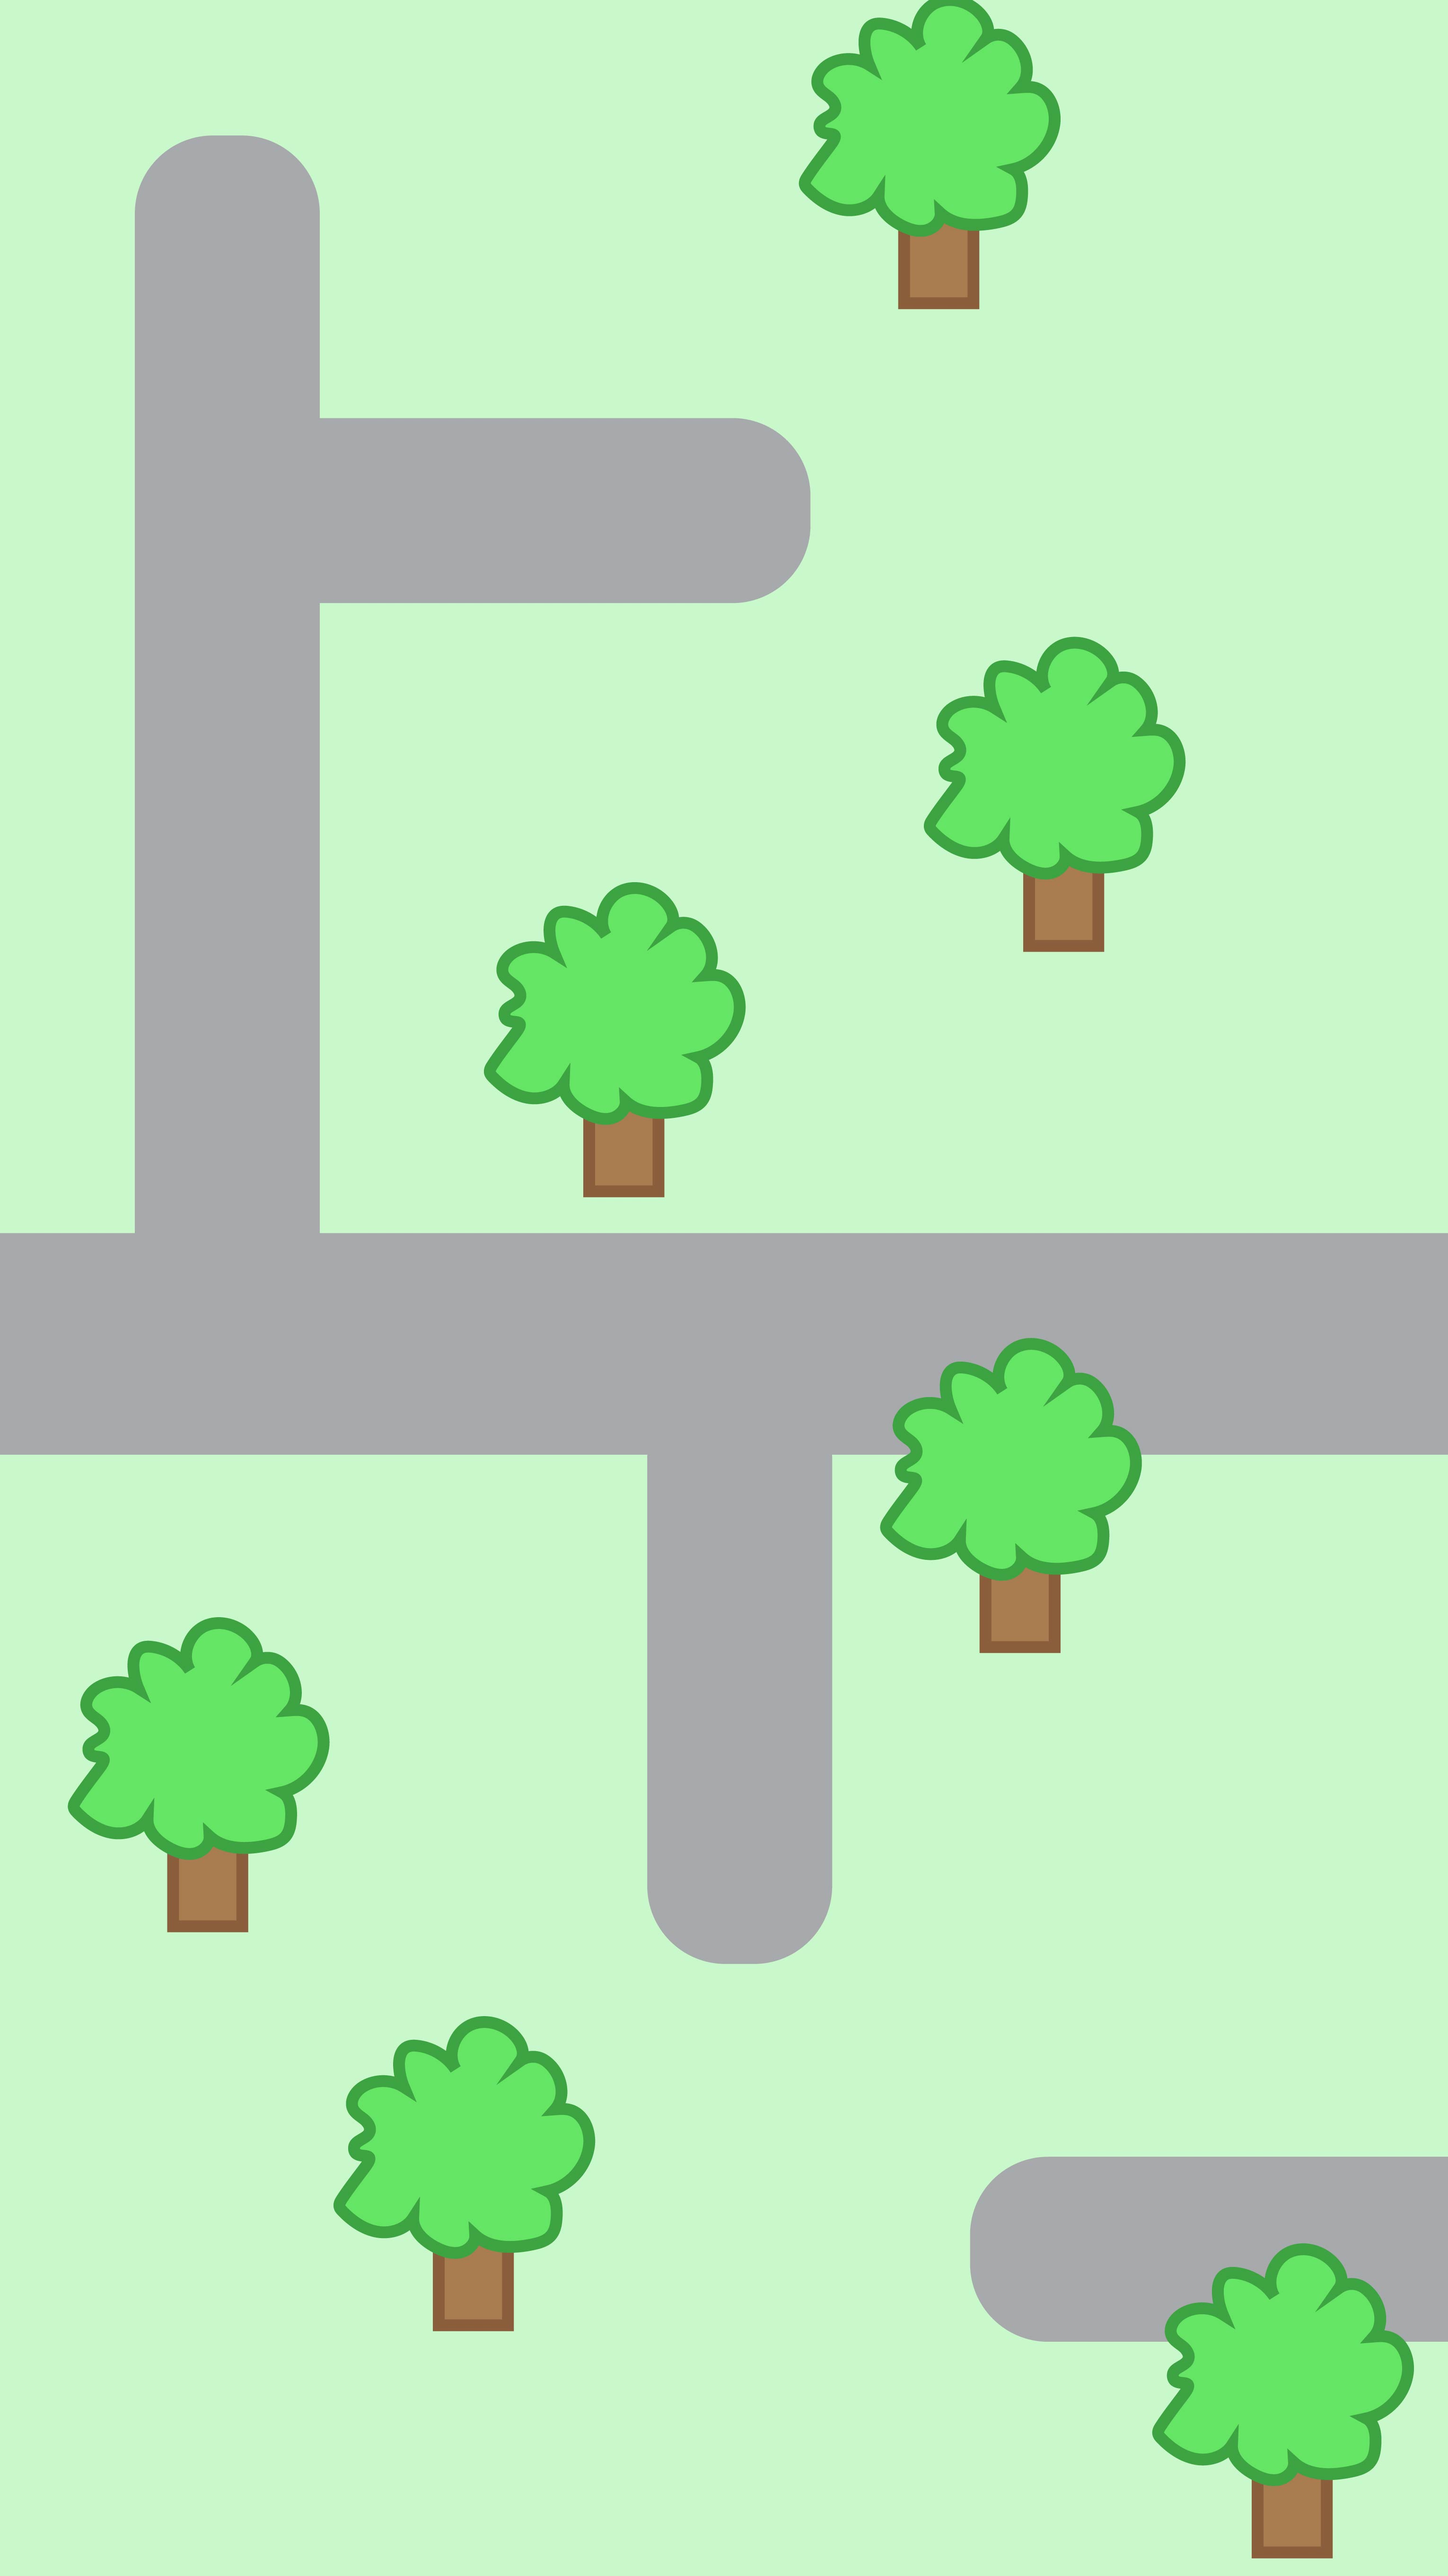
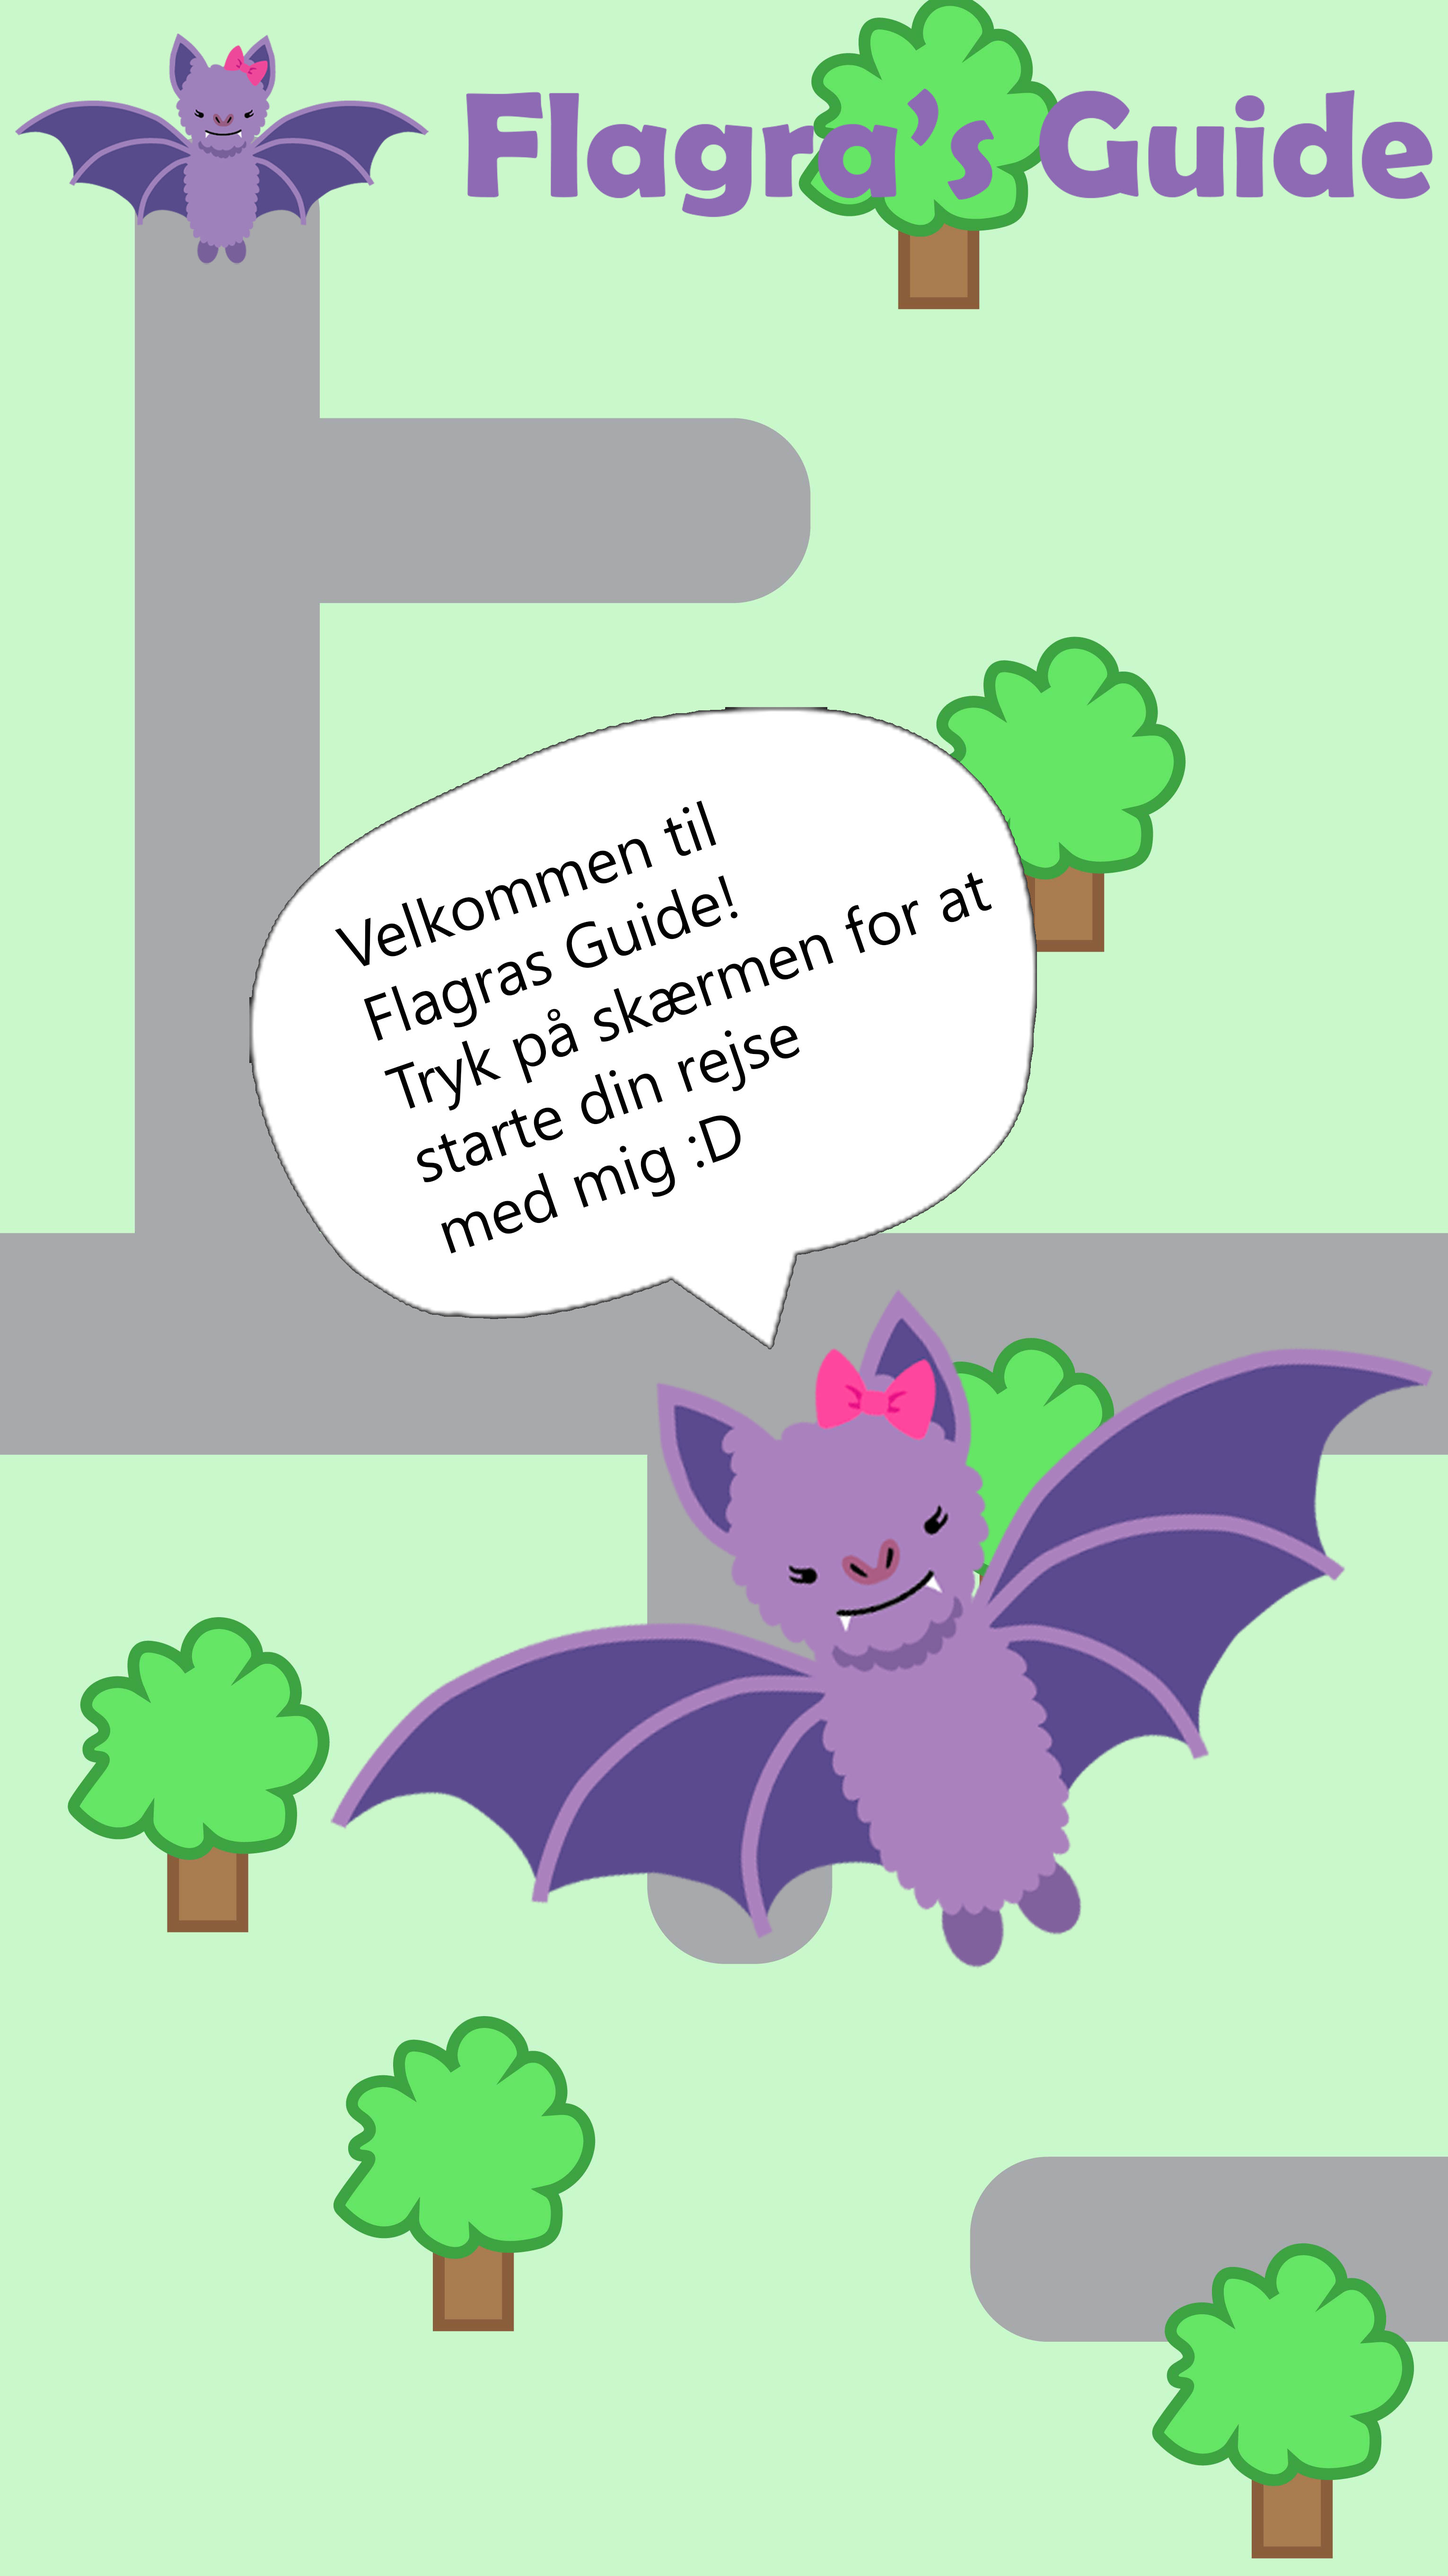
Ændret på forside billede og gjort det klikbart

diff --git a/index.php b/index.php
@@ -13,17 +13,15 @@ require "settings/init.php";
     <meta name="copyright" content="Information om copyright">
 
     <link href="css/styles.css" rel="stylesheet" type="text/css">
-    <link href="https://api.mapbox.com/mapbox-gl-js/v3.2.0/mapbox-gl.css" rel="stylesheet">
-    <script src="https://api.mapbox.com/mapbox-gl-js/v3.2.0/mapbox-gl.js"></script>
-    <script src="https://api.mapbox.com/mapbox-gl-js/plugins/mapbox-gl-directions/v4.3.1/mapbox-gl-directions.js"></script>
-    <link rel="stylesheet" href="https://api.mapbox.com/mapbox-gl-js/plugins/mapbox-gl-directions/v4.3.1/mapbox-gl-directions.css" type="text/css">
 
     <meta name="viewport" content="width=device-width, initial-scale=1">
 </head>
 
 <body>
-<div class="row justify-content-center">
+<div>
+    <a href="maps.html"><img class="w-100" src="images/forside.jpg" alt="baggrundsbillede"></a>
 </div>
+
 
 <script src="node_modules/bootstrap/dist/js/bootstrap.bundle.min.js"></script>
 
